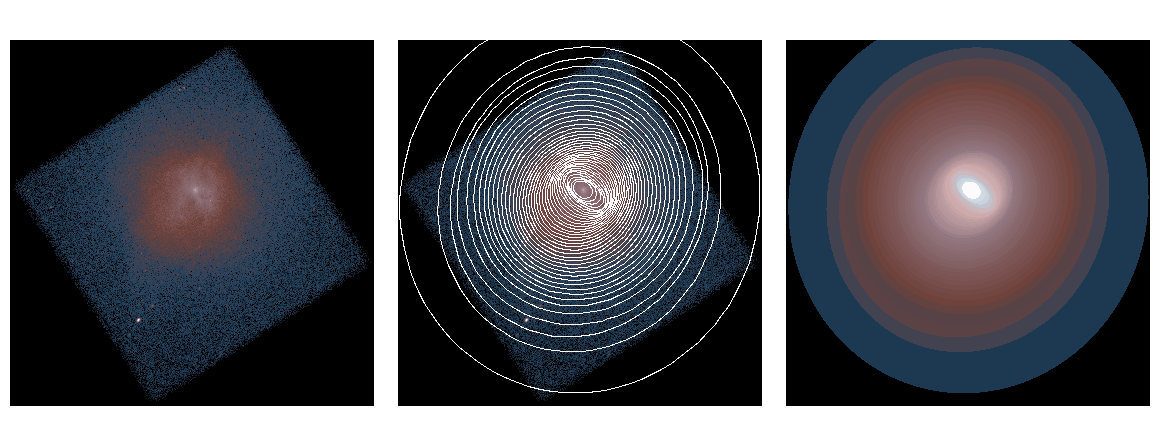
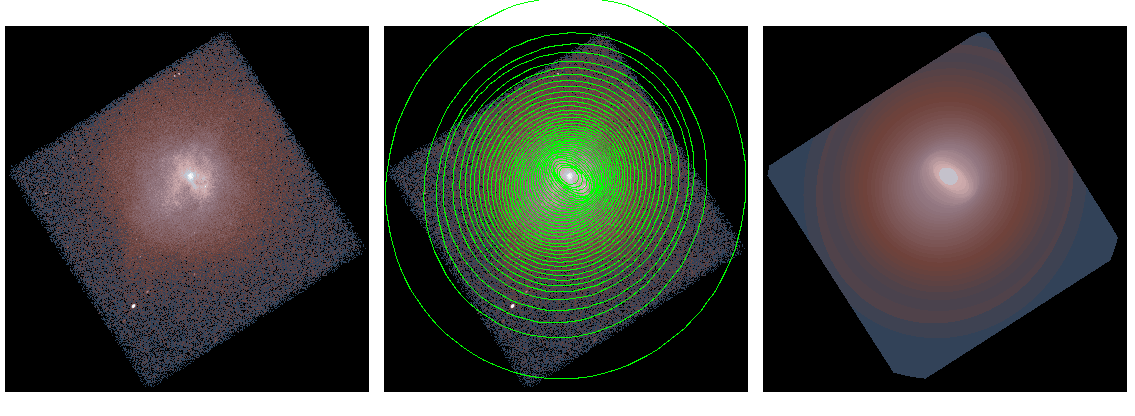
regen figs with subspace

diff --git a/README.md b/README.md
@@ -1,5 +1,14 @@
 ![ds9 image](ds9.png)
 
+<!--
+ds9 -geometry 1135x670 img2.fits -scale log -tile column \
+  -scale limits 0 175 \
+  -cmap load ~/ds9_hacks/LUT/Neota/neota_sunset-in-atlantis.lut \
+  img2.fits -region ellipses.fits -scale limits 0 175 \
+  model.fits -scale limits 0 175 \
+  -view colorbar no  -saveimage png ds9.png -quit
+-->
+
 
 # Elliptical model
 
@@ -17,7 +26,8 @@ the image.  `dmellipse` takes the input image `img.fits` and a
 integrated fractions.  
 
 ```bash
-dmellipse img.fits ellipses.fits fraction="lgrid(0.05:1.0:0.025)" step=20 mode=h clob+
+dmcopy "img.fits[sky=region(hull.fits)][opt full]" img2.fits clob+
+dmellipse img2.fits ellipses.fits fraction="lgrid(0.05:1.0:0.025)" step=20 mode=h clob+
 ```
 
 This example generates the ellipse profile which enclose from 5% to 100%
@@ -26,10 +36,12 @@ increased to match the scale of the image which allows the tool to run
 faster.
 
 ```bash
-ds9 img.fits -region ellipses.fits -scale log \
+ds9 img2.fits -region ellipses.fits -scale log \
+  -scale limits 0 175 \
   -cmap load ~/ds9_hacks/LUT/Neota/neota_sunset-in-atlantis.lut \
   -view colorbar no  -saveimage png ellipses.png -quit
 ```
+
 
 ![Ellipses](ellipses.png)
 
@@ -40,7 +52,7 @@ Now we will reconstruct a model of the image based on the
 ellipse profile
 
 ```bash
-emodel ellipses.fits img.fits model.fits weight=flat clob+ 
+emodel ellipses.fits img2.fits model.fits weight=flat clob+ norm=486119
 ```
 
 `emodel` takes the information about the ellipses and the fraction 
@@ -51,7 +63,7 @@ default `flat` equally distributes the flux into each pixel in the ellipse.
 
 
 ```bash
-ds9 model.fits -scale log \
+ds9 model.fits -scale log -scale limits 0 175 \
   -cmap load ~/ds9_hacks/LUT/Neota/neota_sunset-in-atlantis.lut \
   -view colorbar no  -saveimage png model.png -quit
 ```
@@ -68,12 +80,12 @@ are well behaved but the other options may produces some artifacts,
 especially at the boundary between ellipses.
 
 ```bash
-emodel ellipses.fits img.fits model_flat.fits weight=flat clob+ 
-emodel ellipses.fits img.fits model_linear.fits weight=linear clob+ 
-emodel ellipses.fits img.fits model_gaussian.fits weight=gaussian clob+ 
-emodel ellipses.fits img.fits model_square.fits weight=square clob+ 
-emodel ellipses.fits img.fits model_sqrt.fits weight=sqrt clob+ 
-emodel ellipses.fits img.fits model_hemi.fits weight=hemi clob+ 
+emodel ellipses.fits img2.fits model_flat.fits weight=flat clob+ norm=486119
+emodel ellipses.fits img2.fits model_linear.fits weight=linear clob+ norm=486119
+emodel ellipses.fits img2.fits model_gaussian.fits weight=gaussian clob+ norm=486119
+emodel ellipses.fits img2.fits model_square.fits weight=square clob+ norm=486119
+emodel ellipses.fits img2.fits model_sqrt.fits weight=sqrt clob+ norm=486119 
+emodel ellipses.fits img2.fits model_hemi.fits weight=hemi clob+ norm=486119
 ```
 
 The effect of the weighting is most obvious in the center of the
@@ -81,7 +93,7 @@ image
 
 
 ```
-ds9 model_flat.fits -scale log -zoom 4 -tile -view colorbar no\
+ds9 model_flat.fits -scale log -scale limits 0 175 -zoom 4 -tile -view colorbar no\
   -cmap load ~/ds9_hacks/LUT/Neota/neota_sunset-in-atlantis.lut \
   model_linear.fits model_gaussian.fits model_square.fits model_sqrt.fits model_hemi.fits \
   -pan to 4270 3960 physical -match frames physical \
